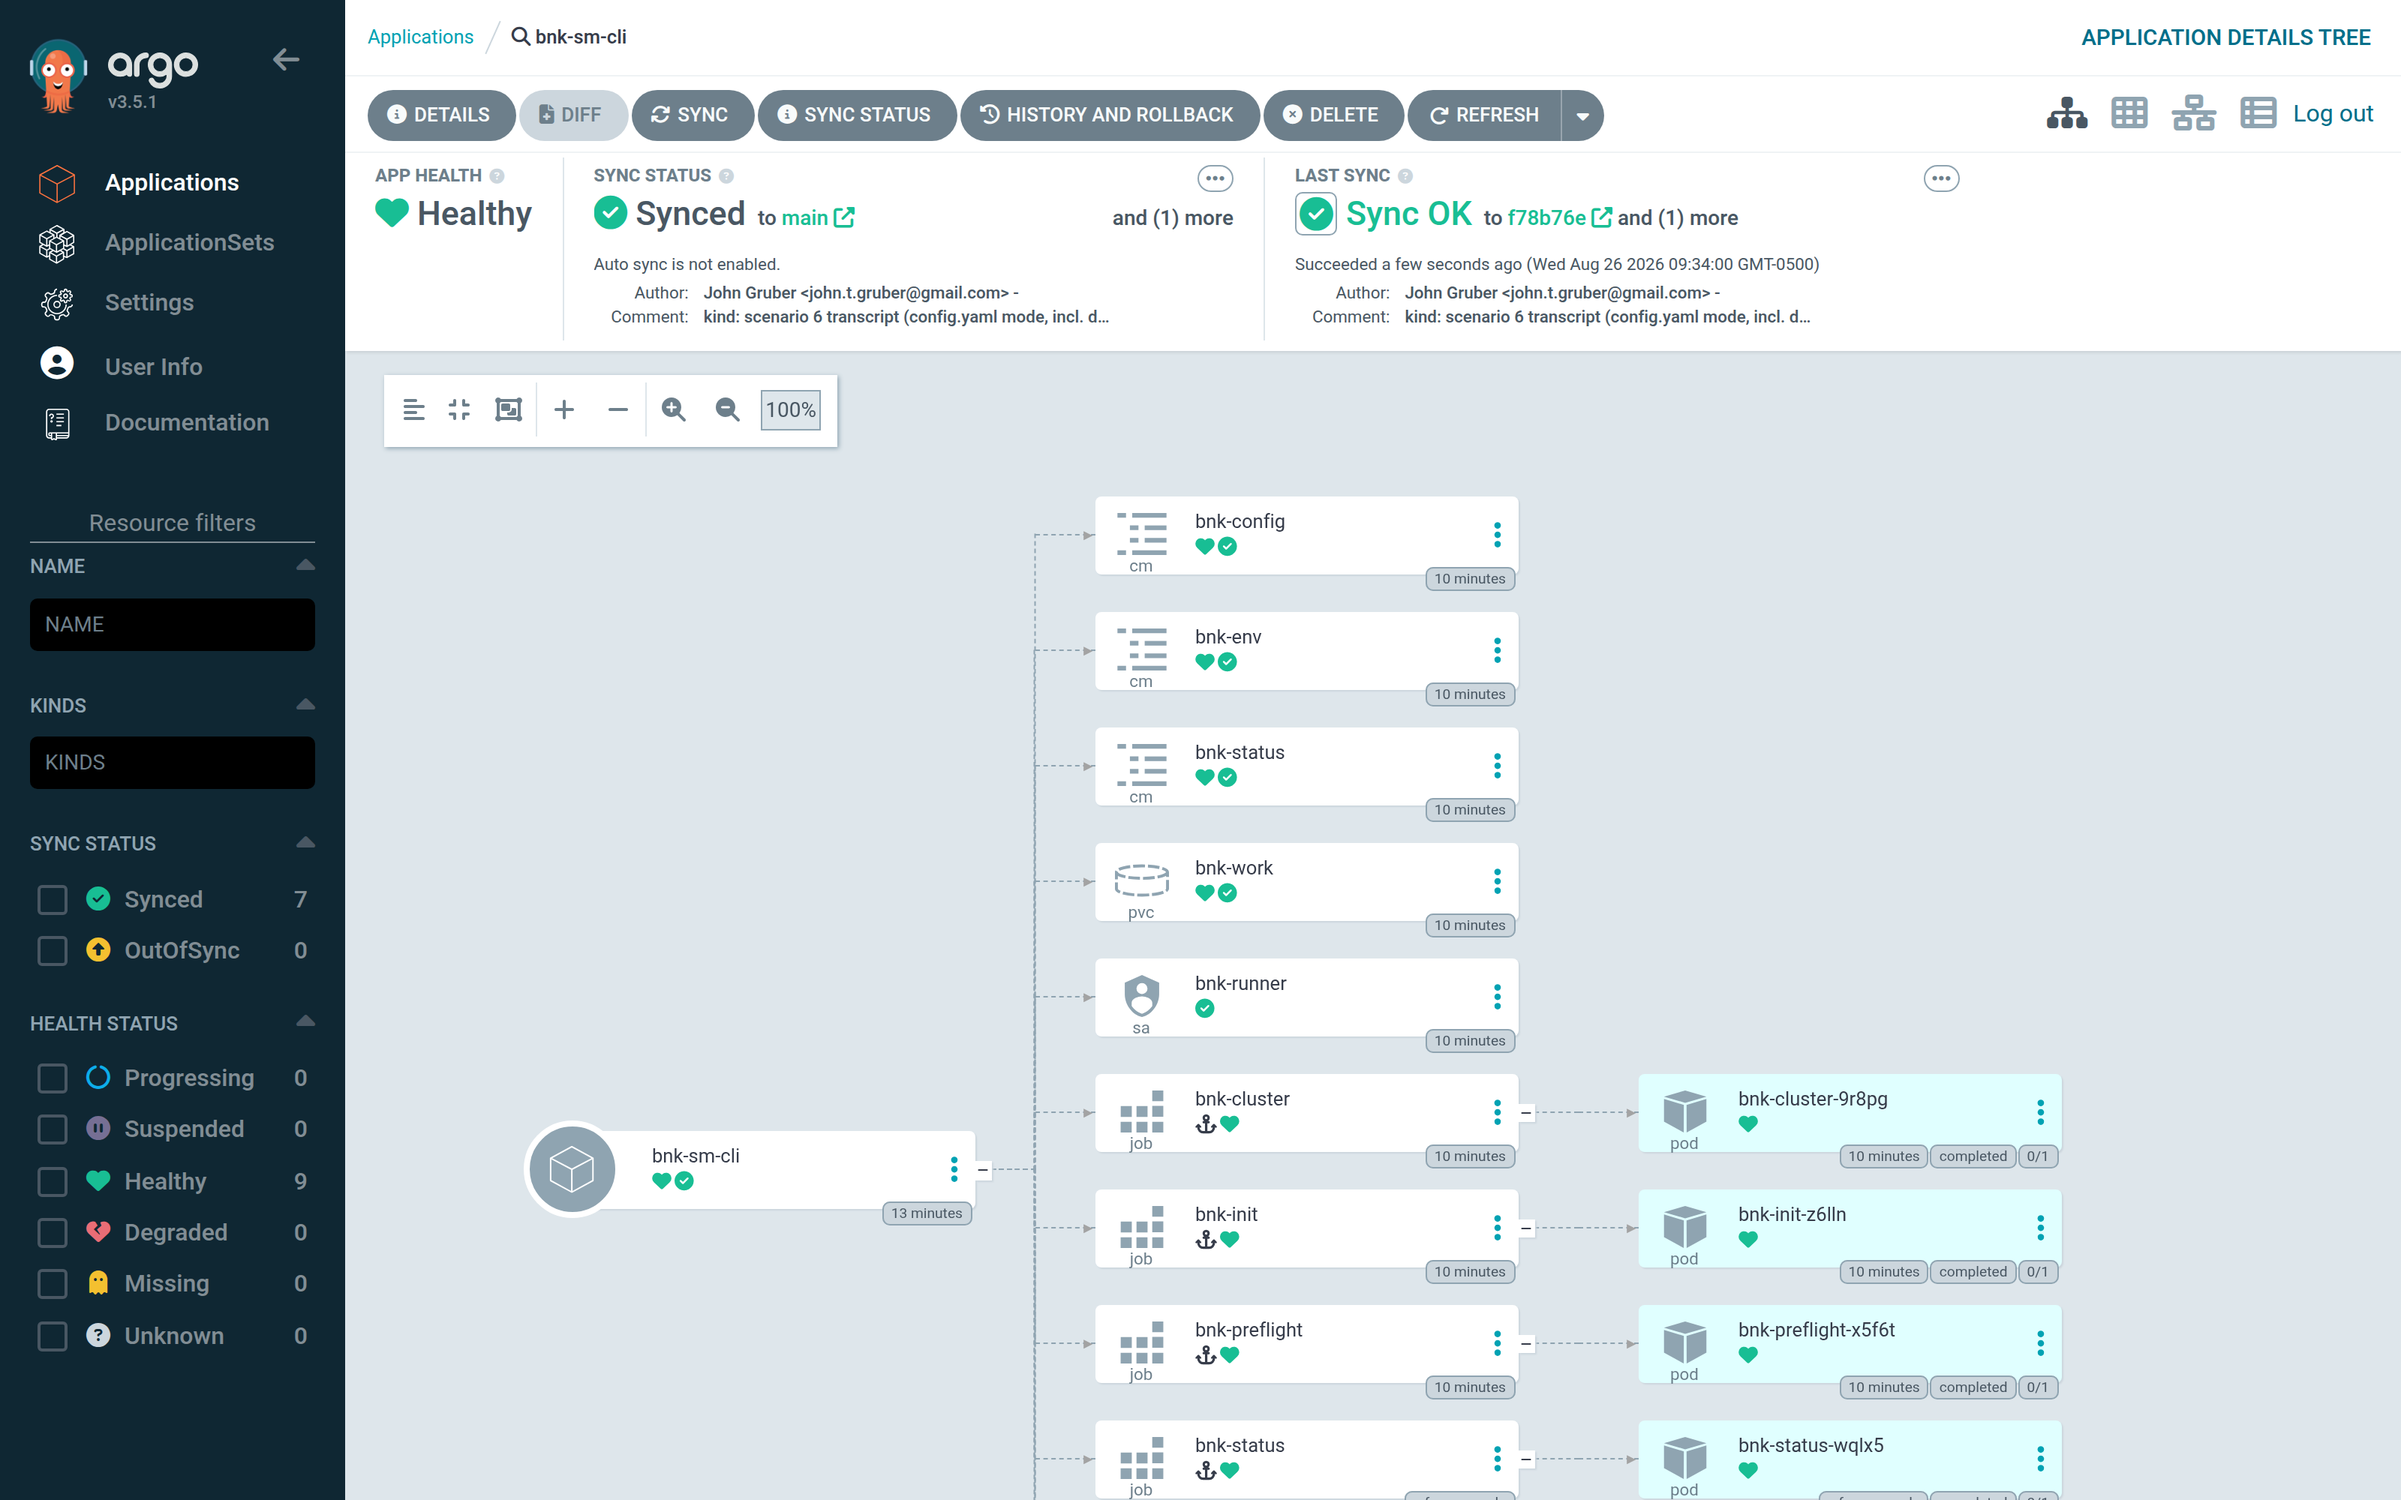
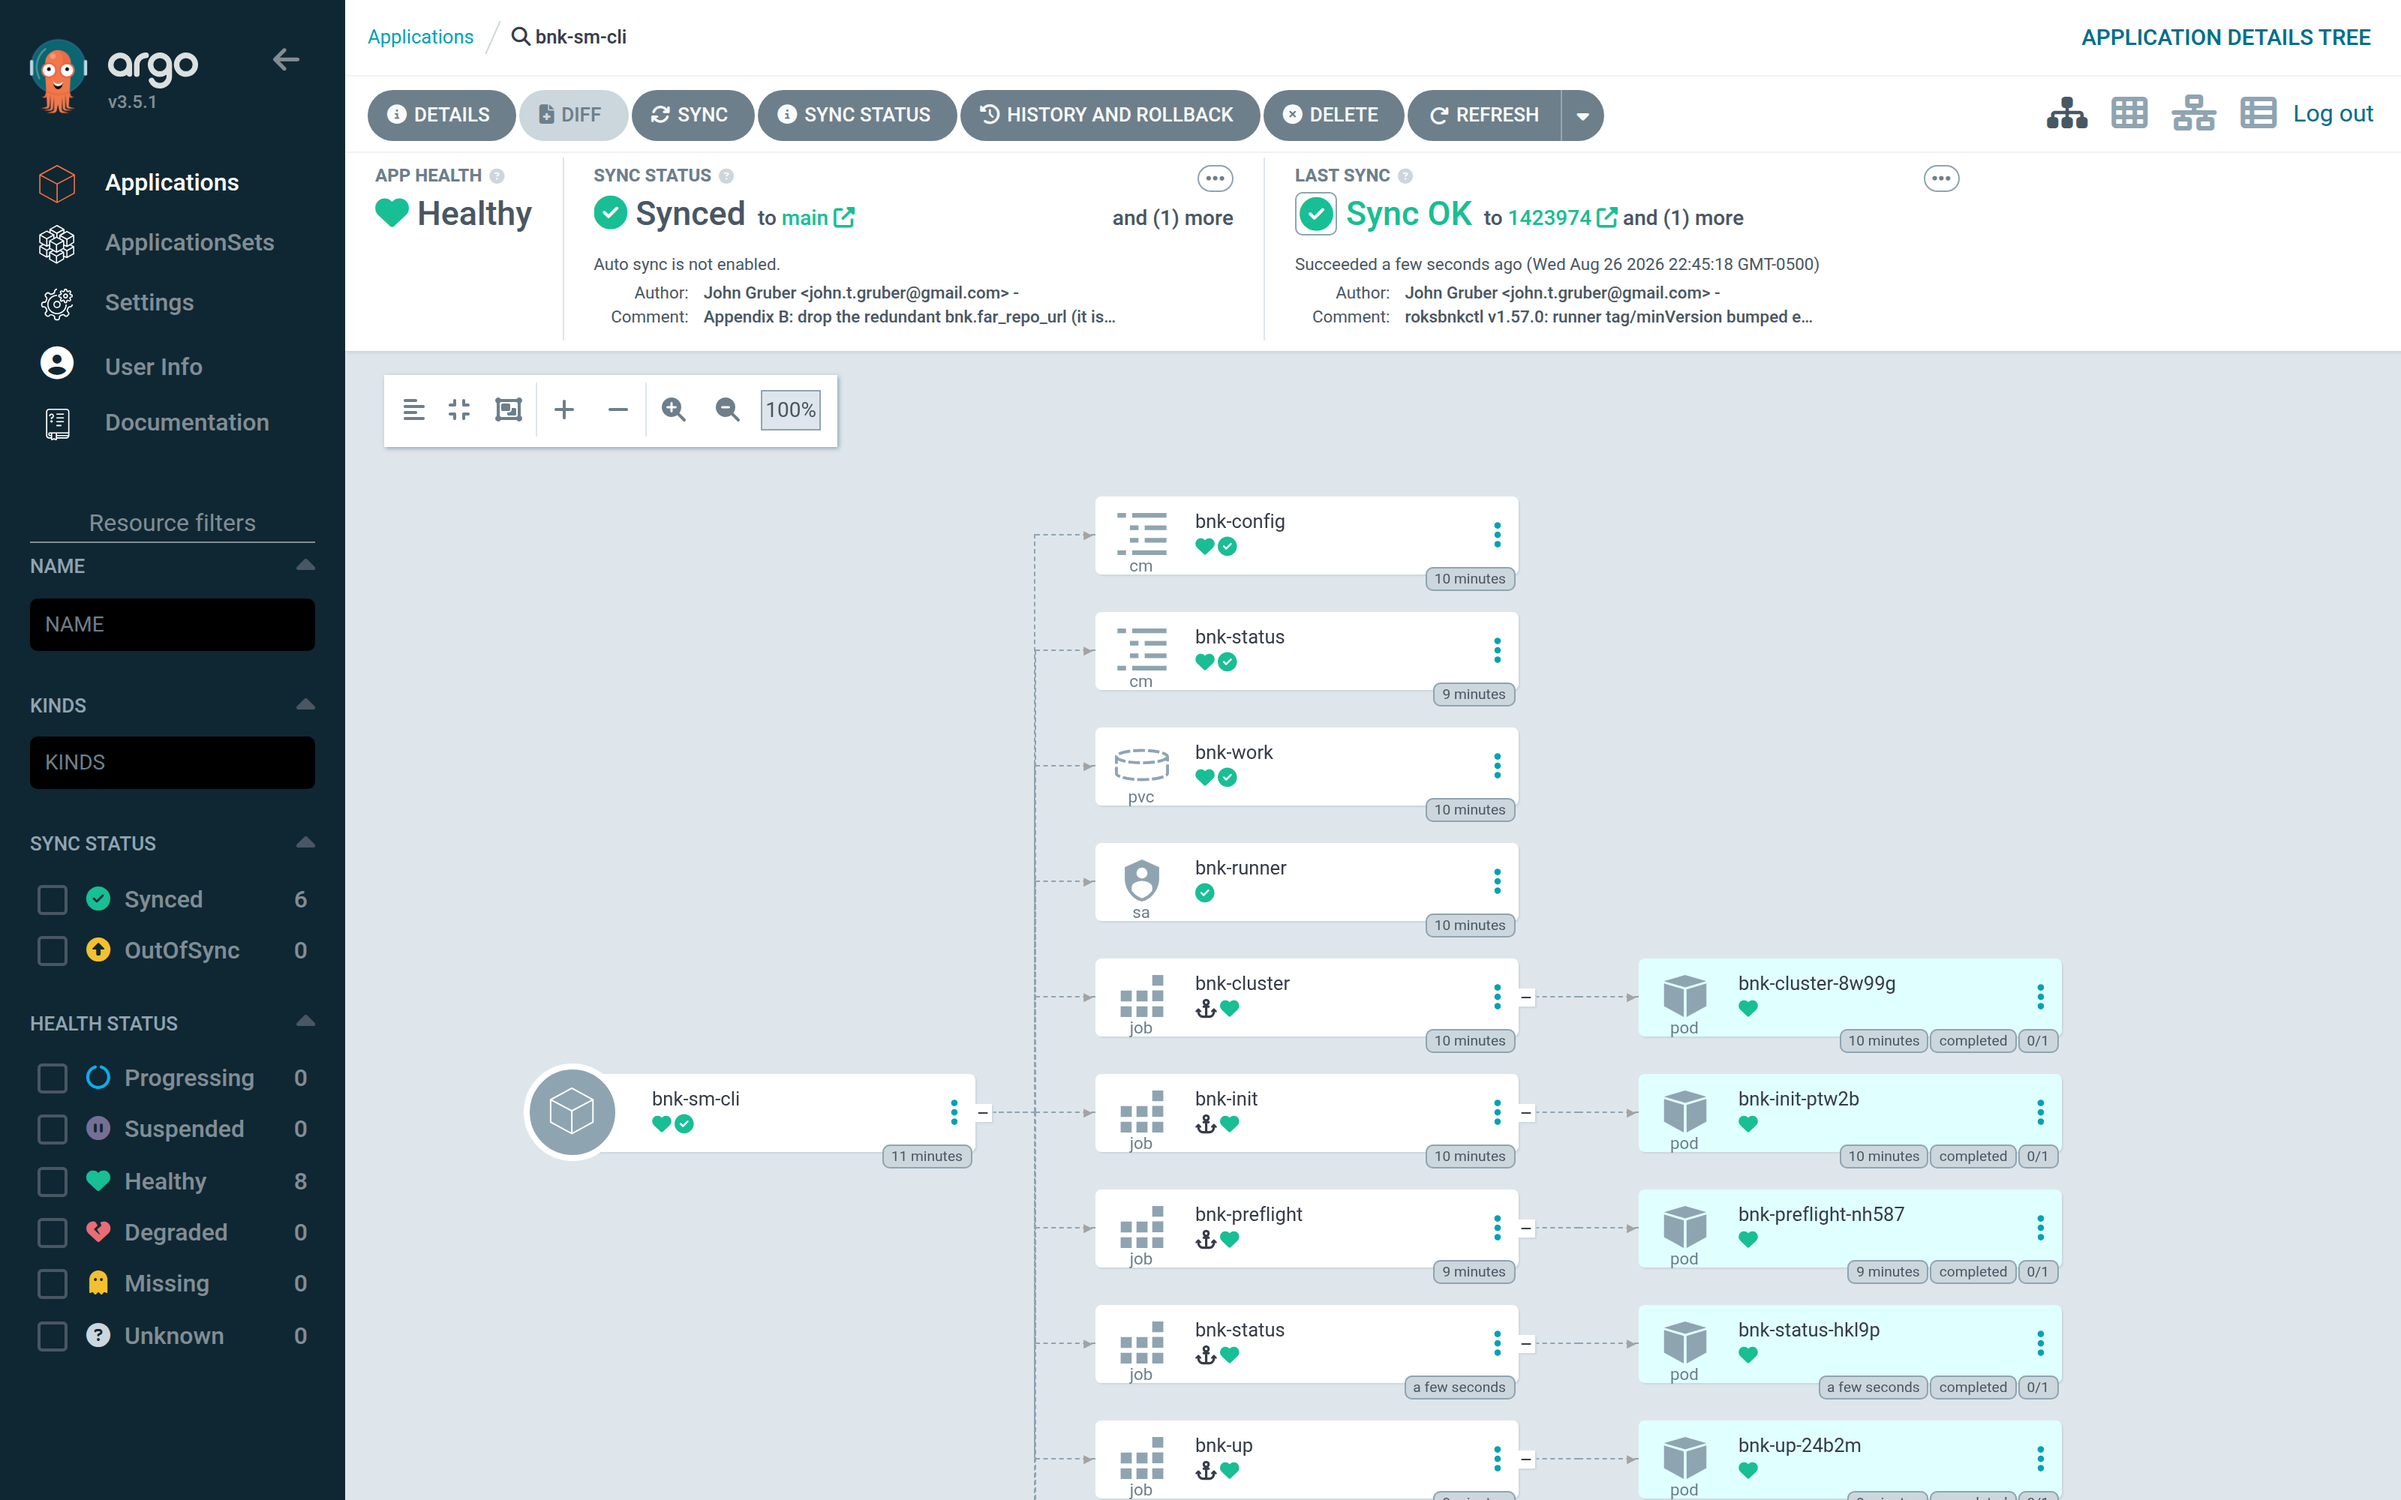
Part II on roksbnkctl v1.57.0: screenshots and the delete-path teardown excerpt from the v1.57.0 run
Claude-Session: https://claude.ai/code/session_013dz6ug5kXKb94iL9fYSWhs

diff --git a/book/src/10-uninstall.md b/book/src/10-uninstall.md
@@ -126,13 +126,13 @@ job/bnk-predelete` — before it is gone.
 ![bnk-predelete logs while the destroy is running](images/logs-bnk-predelete-running.png)
 
 ```text
-Plan: 0 to add, 0 to change, 37 to destroy.
-module.cne_instance.module.cneinstance.null_resource.validation_webhook_ready[0]: Destruction complete after 0s
-module.license.module.license.null_resource.cneinstance_available_24[0]: Destruction complete after 0s
+Plan: 0 to add, 0 to change, 36 to destroy.
+module.cne_instance.module.cneinstance.null_resource.validation_webhook_ready[0]: Destruction complete after 1s
+module.license.module.license.null_resource.cneinstance_available_24[0]: Destruction complete after 1s
 module.license.module.license.null_resource.license_active[0]: Destruction complete after 1s
 module.testing.null_resource.roks_cluster_gate: Destruction complete after 1s
-module.license.module.license.kubectl_manifest.bnk_license[0]: Destruction complete after 0s
 module.cne_instance.module.cneinstance.kubectl_manifest.cneinstance_scc_policies["f5-bnk/flo-f5-lifecycle-operator"]: Destruction complete after 0s
+…
 Error: context deadline exceeded
   ⚠ namespace "f5-bnk" was stuck Terminating; cleared F5 finalizers on 2 object(s) and it drained.
 → terraform destroy (retry, after freeing the stuck namespace)

diff --git a/book/src/07-bnk-up-logs.md b/book/src/07-bnk-up-logs.md
@@ -13,7 +13,7 @@ tree, then the **Logs** tab in the sliding panel. The URL is bookmarkable —
 ✓ Applied 1 override(s) from environment: ibmcloud.api_key_b64 (IBMCLOUD_API_KEY)
 ✓ Wrote /work/.roksbnkctl/sm-cli/config.yaml
 ✓ Current workspace: sm-cli
-roksbnkctl v1.56.0 (commit 12c481c…)
+roksbnkctl v1.57.0 (commit 5c8db66…)
 ✓  terraform              /usr/local/bin/terraform (Terraform v1.10.5)
 ✓  helm                   /usr/local/bin/helm (v3.21.4)
 ✓  ibmcloud api key       resolved
@@ -132,7 +132,7 @@ Three things to notice:
 [status] succeeded deployed=true — post-sync bnk status captured
 Phase:                   bnk (deployed)
 flo_namespace:           f5-bnk
-flo_trusted_profile_id:  Profile-decf78f4-d511-442d-9c38-3b58ff4405bd
+flo_trusted_profile_id:  Profile-0f3c2e58-c58d-482e-ac75-d71637041c57
 flo_utils_namespace:     f5-utils
 ```
 
